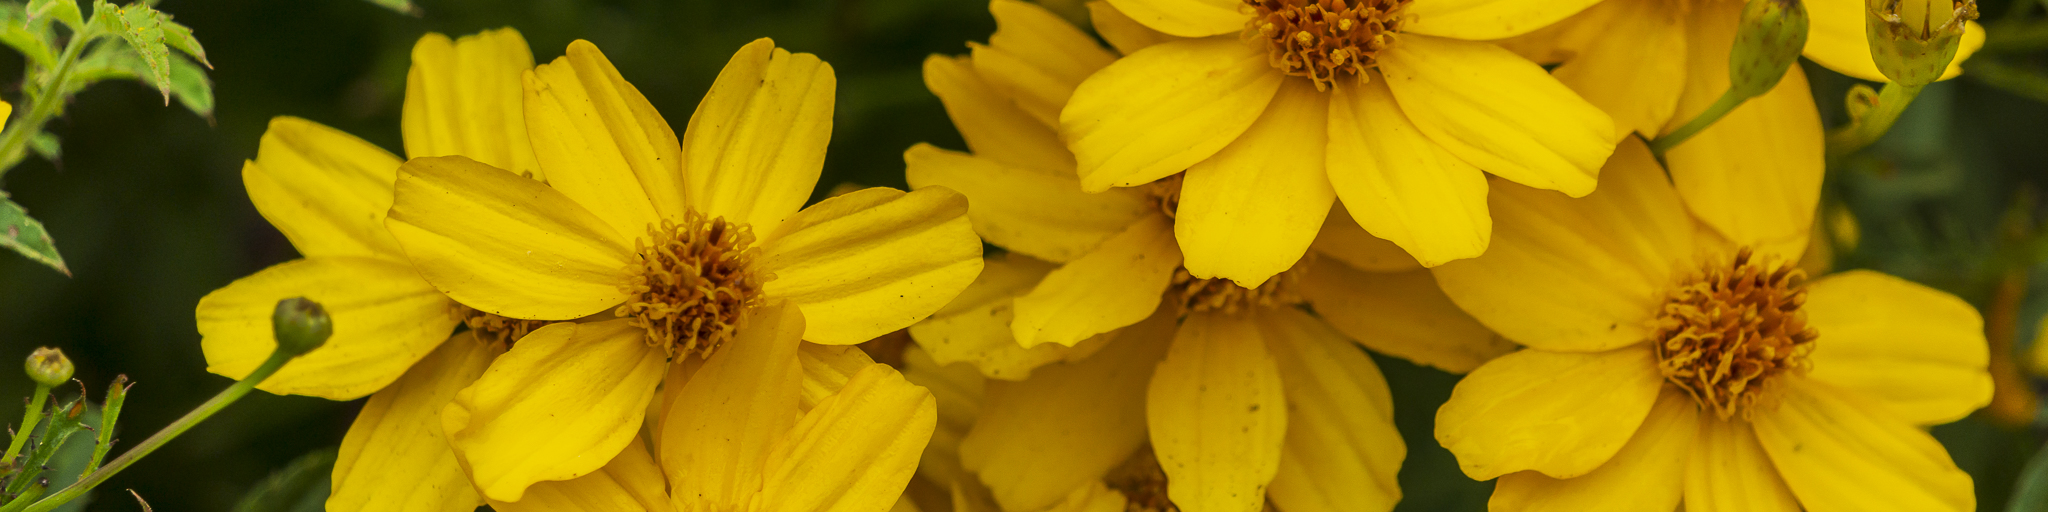
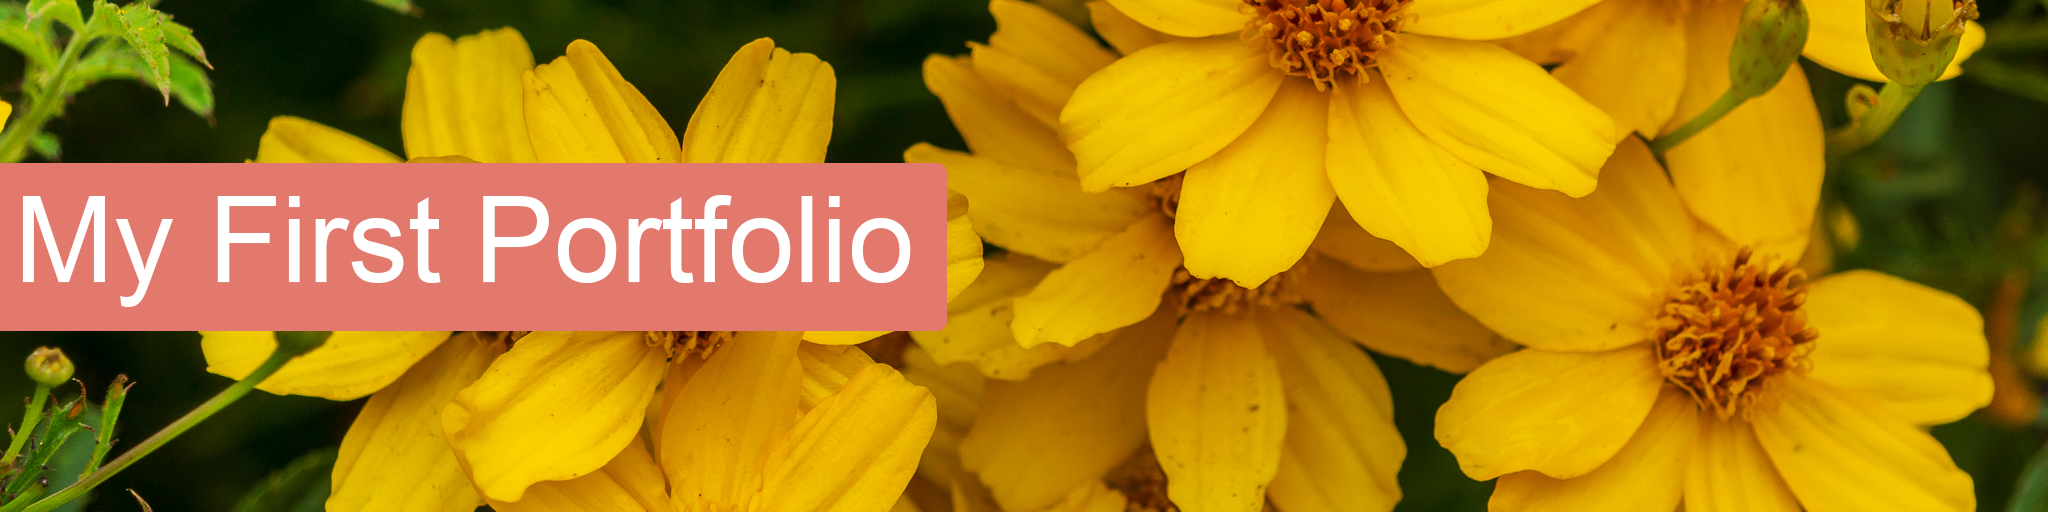
put some graphics on the images with photoshop

Changed region(s): [[0.0, 0.2188, 0.4688, 0.6562], [0.0, 0.0, 0.125, 0.1875], [0.625, 0.0, 0.6562, 0.0312]]

diff --git a/index.html b/index.html
@@ -56,11 +56,12 @@
                 <figure>
                     <a href="https://icortes.github.io/code-refractor-hw/" target="_blank"
                         rel="noopener noreferrer"><img id="big-img" alt="image of first project"
-                            src="assets/images/_DSC3799.jpg"></a>
+                            src="assets/images/_DSC3799.png"></a>
                 </figure>
                 <figure id="img4x4">
-                    <a href="" target="_blank" rel="noopener noreferrer"><img class="small-img"
-                            alt="image of second project" src="assets/images/_DSC3874.jpg"></a>
+                    <a href="https://icortes.github.io/my-first-portfolio/" target="_blank"
+                        rel="noopener noreferrer"><img class="small-img" alt="image of second project"
+                            src="assets/images/_DSC3874.jpg"></a>
                     <a href="" target="_blank" rel="noopener noreferrer"><img class="small-img"
                             alt="image of third project" src="assets/images/_DSC4244.jpg"></a>
                     <a href="" target="_blank" rel="noopener noreferrer"><img class="small-img"
